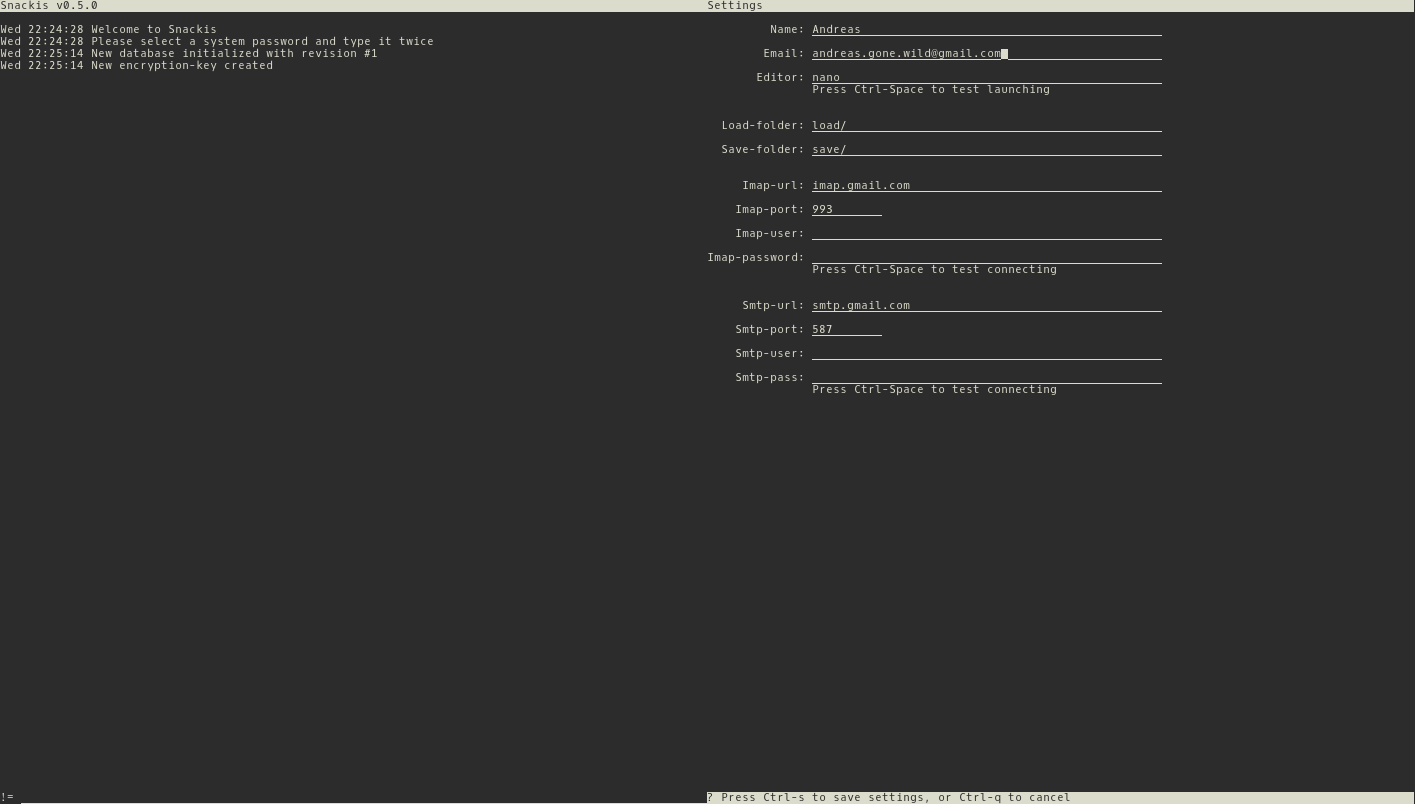
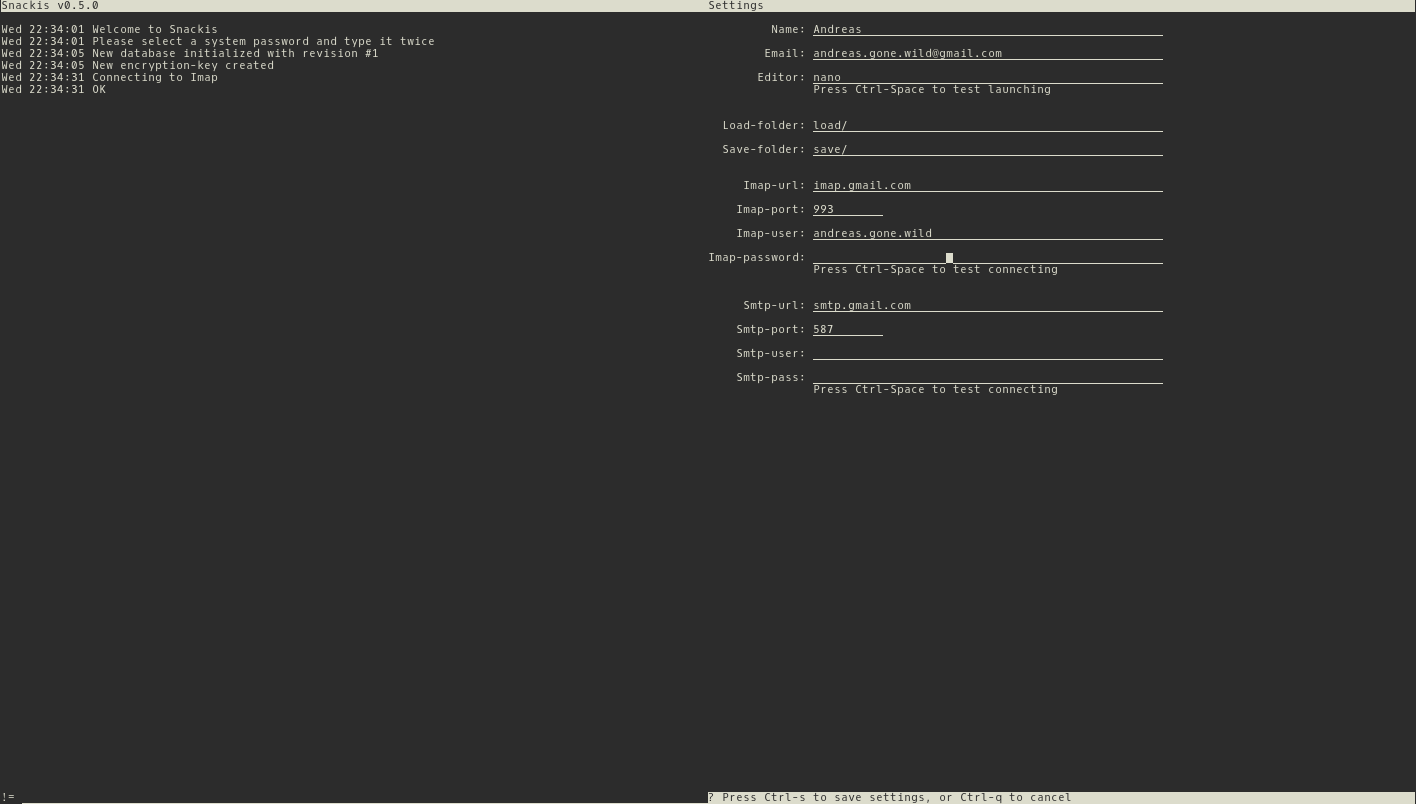
readme

diff --git a/src/snackis/ui/settings_form.cpp b/src/snackis/ui/settings_form.cpp
@@ -80,15 +80,15 @@ namespace ui {
     load_folder(*this, Dim(1, 50), "Load-folder"),
     save_folder(*this, Dim(1, 50), "Save-folder"),
 
-    imap_url(*this, Dim(1, 50), "Imap-url"),
-    imap_port(*this, Dim(1, 10), "Imap-port"),
-    imap_user(*this, Dim(1, 50), "Imap-user"),
-    imap_pass(*this, Dim(1, 50), "Imap-password"),
+    imap_url(*this, Dim(1, 50), "Imap Url"),
+    imap_port(*this, Dim(1, 10), "Imap Port"),
+    imap_user(*this, Dim(1, 50), "Imap User"),
+    imap_pass(*this, Dim(1, 50), "Imap Password"),
 
-    smtp_url(*this, Dim(1, 50), "Smtp-url"),
-    smtp_port(*this, Dim(1, 10), "Smtp-port"),
-    smtp_user(*this, Dim(1, 50), "Smtp-user"),
-    smtp_pass(*this, Dim(1, 50), "Smtp-pass") {
+    smtp_url(*this, Dim(1, 50), "Smtp Url"),
+    smtp_port(*this, Dim(1, 10), "Smtp Port"),
+    smtp_user(*this, Dim(1, 50), "Smtp User"),
+    smtp_pass(*this, Dim(1, 50), "Smtp Password") {
     label = "Settings";
     status = "Press Ctrl-s to save settings, or Ctrl-q to cancel";
     margin_top = 1;

diff --git a/README.md b/README.md
@@ -17,6 +17,15 @@ Once inside, the first thing you probably want to do is to have a look at the se
 
 ![settings example](images/settings.png?raw=true)
 
+#### Sending Invites
+Type ```invite``` in the reader and press ```Return``` to open the invite form. Snackis will sent an email containing your public key to the specified address. Try it with your own address to get an idea of how it works, Snackis wont mind.
+
+![invite example](images/invite.png?raw=true)
+
+Don't forget to send the actual message. Snackis stores all outgoing messages in an outbox that may be emptied by typing ```send``` followed by ```Return``` in the reader.
+
+![send example](images/send.png?raw=true)
+
 ### License
 Snackis is licensed under the GNU General Public License Version 3.
 
